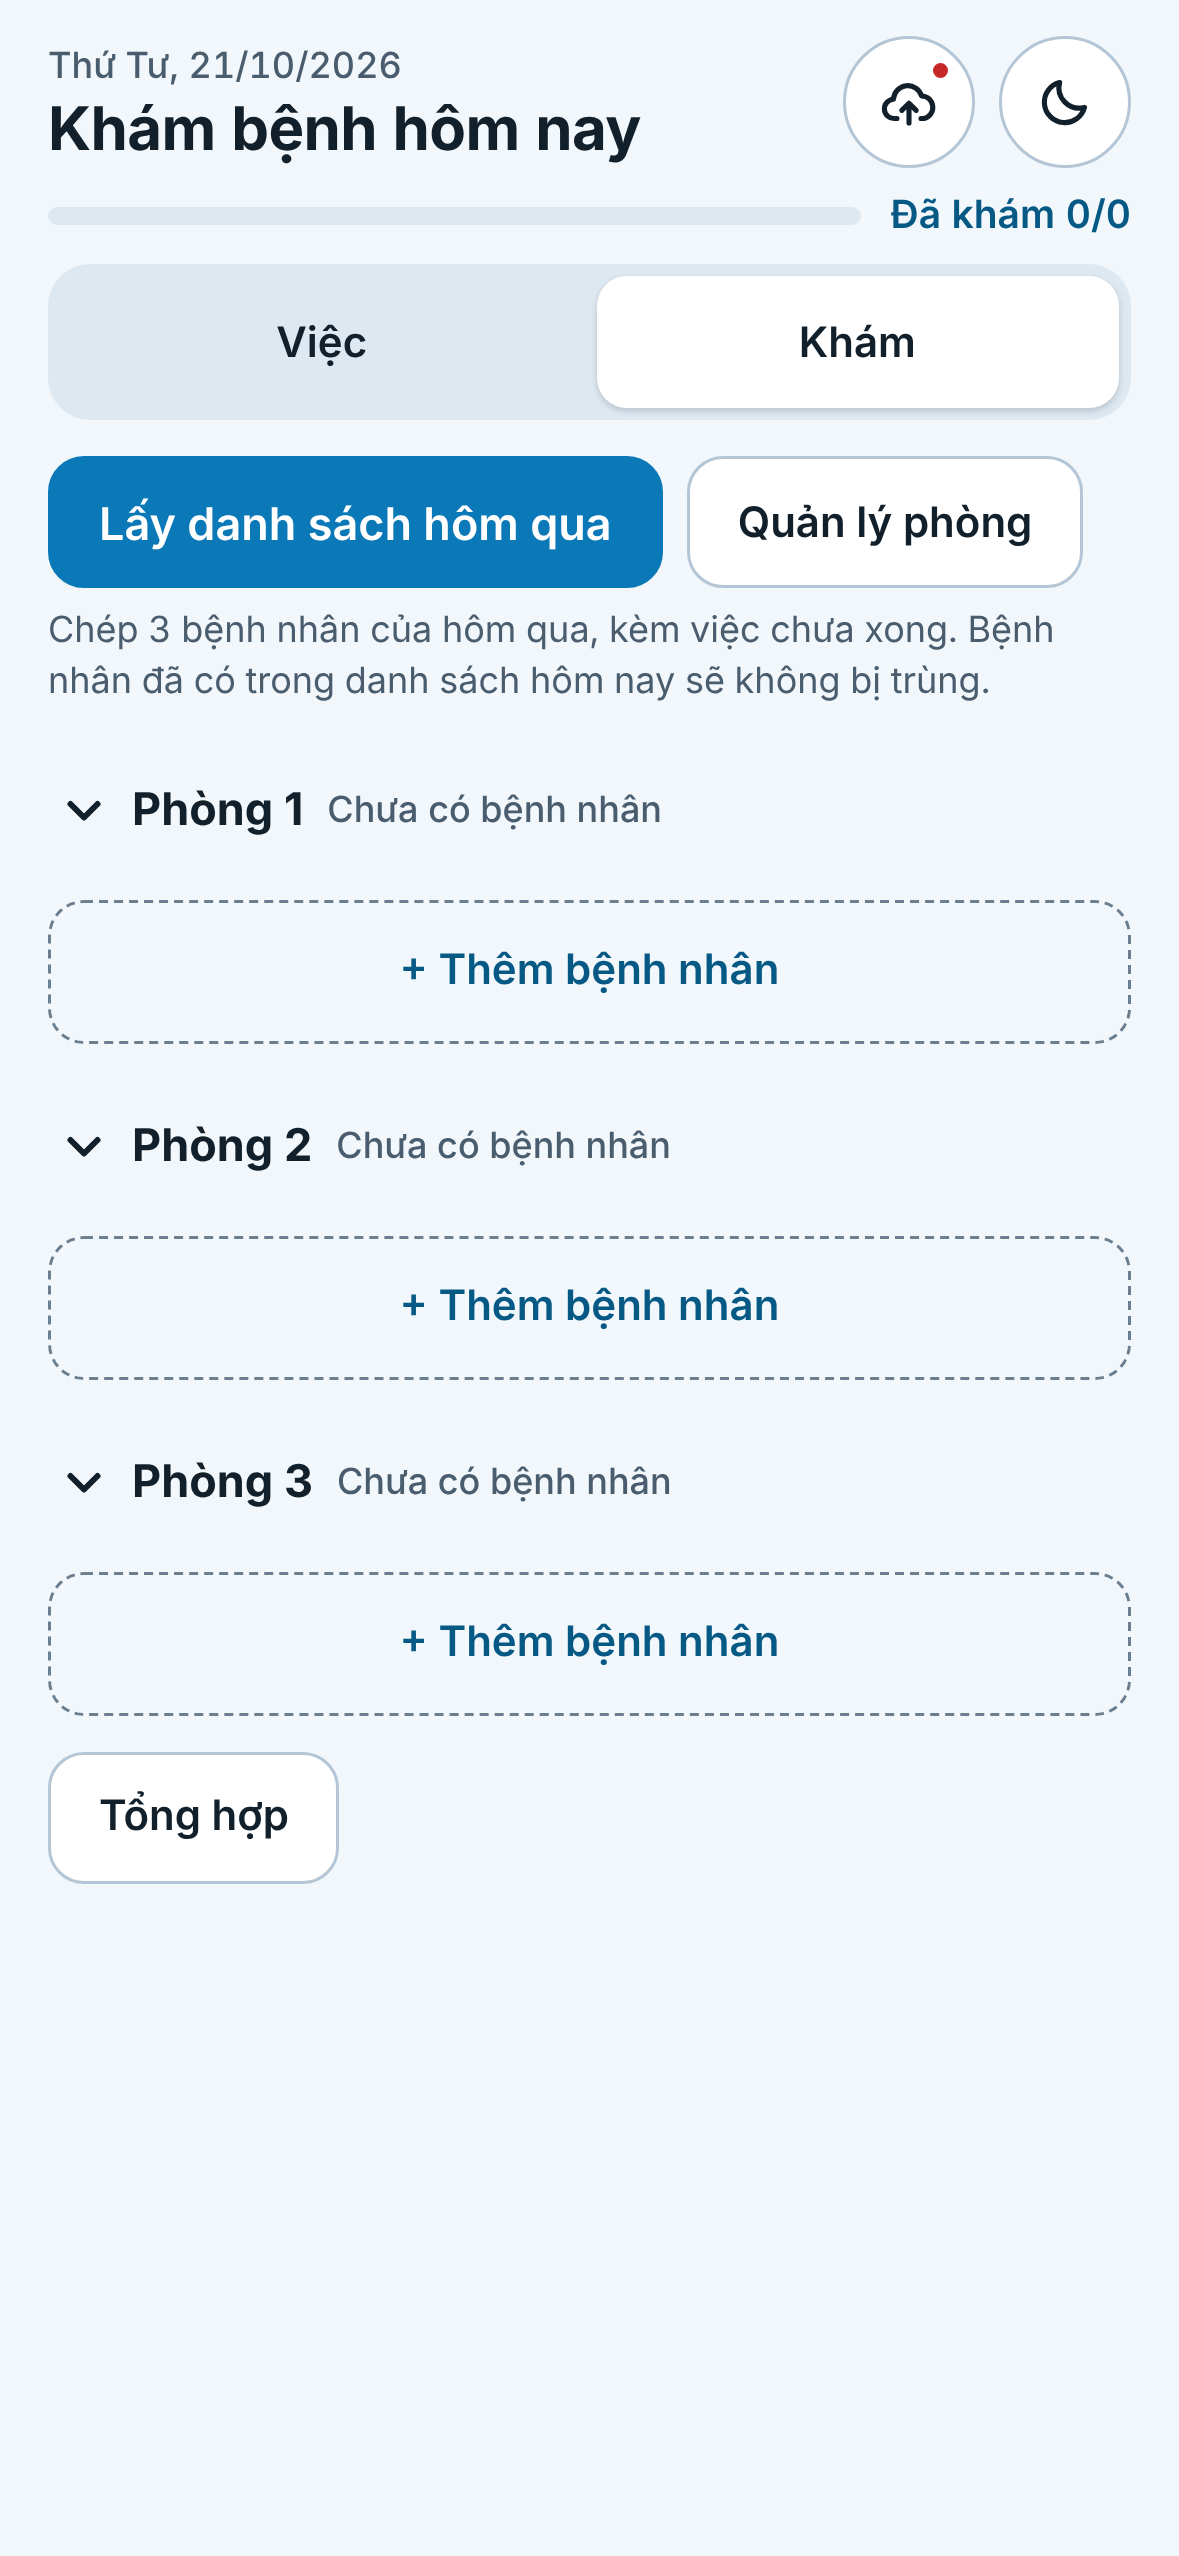
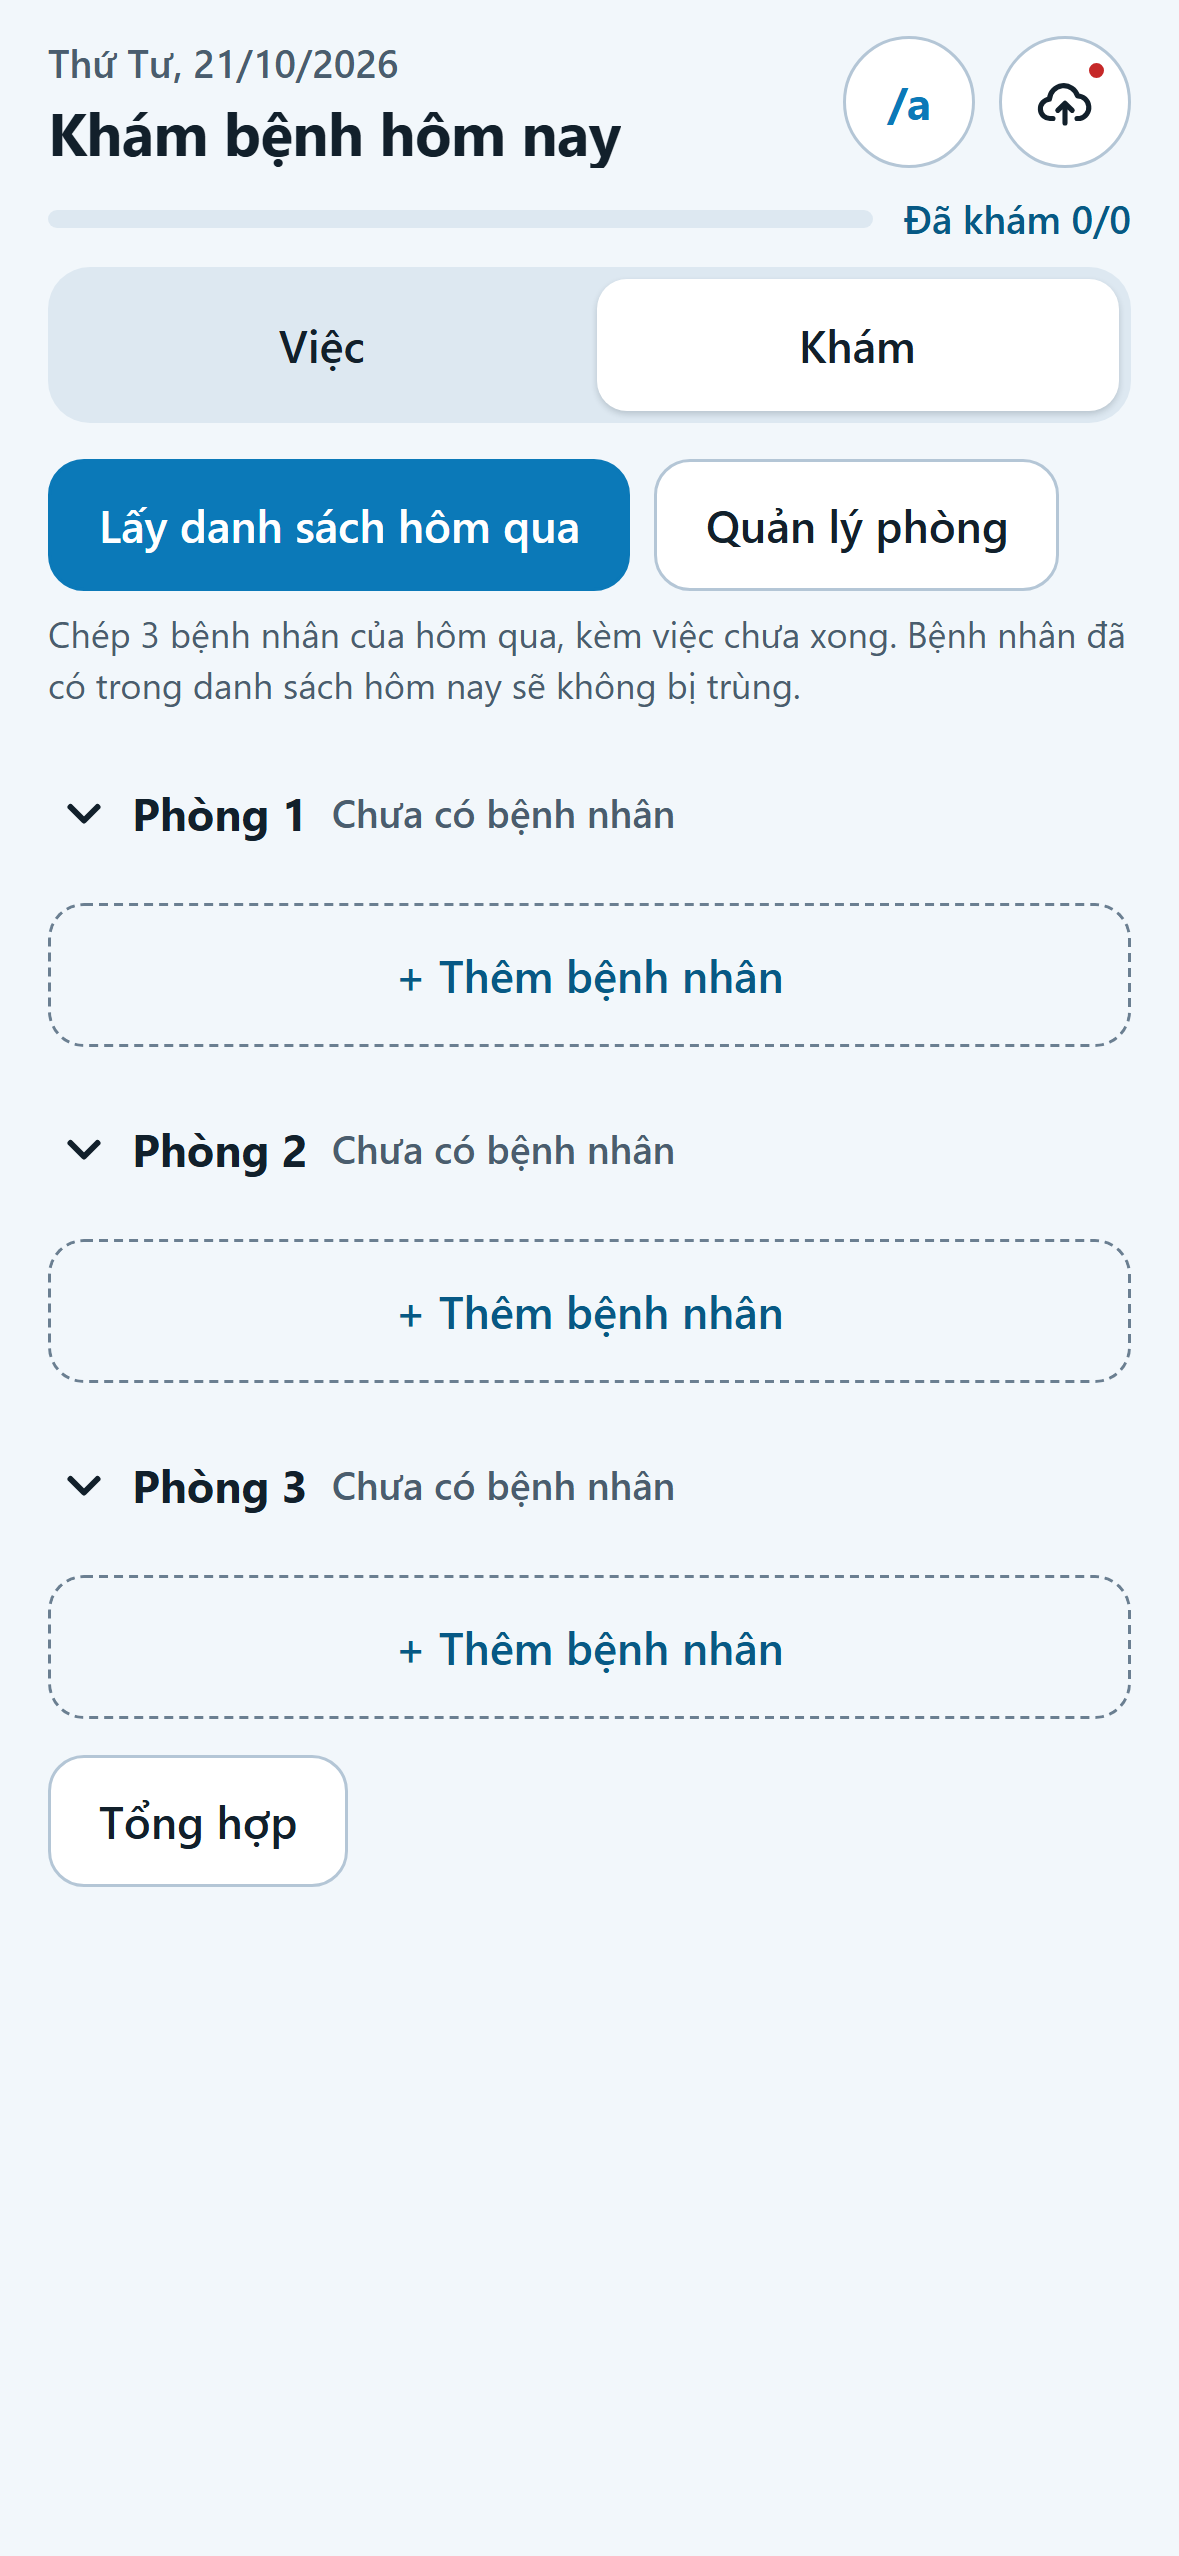
v9.1 đã duyệt: lưu ảnh chuẩn mới; thêm phiếu đợt 9.2 chờ duyệt (chưa đổi app)

diff --git a/doi-agent/NHAT_KY.md b/doi-agent/NHAT_KY.md
@@ -7,7 +7,6 @@
 | # | Phát hiện | Mức | Đề xuất | Agent |
 |---|---|---|---|---|
 | 1 | Cuộn dọc danh sách và vuốt trái (SwipeRow kiểu C) bằng ngón tay thật, cùng bàn phím iPhone thật với bảng chi tiết việc, chưa kiểm được bằng máy (Chromium headless) — bác sĩ thử trên iPhone. | Lưu ý | Bác sĩ thử vuốt dọc/trái và gõ trong chi tiết việc trên iPhone; nếu vướng thì giao phiếu chỉnh. | Giao diện |
-| 2 | Ảnh chuẩn `doi-agent/anh-chuan/` chưa cập nhật cho v8 và v9.1. | Lưu ý | Chờ bác sĩ duyệt ảnh v9 (ảnh v9.1 đã chụp), rồi mới chạy `--luu-chuan` để lưu bộ chuẩn mới. | Kiểm thử |
 | 3 | Ô thêm việc một dòng: gõ "/ctm" rồi Enter thì gửi luôn, không thay chữ (phiếu chỉ yêu cầu dấu cách). | Lưu ý | Hỏi bác sĩ có muốn Enter cũng thay chữ trước khi gửi không. | Giao diện |
 | 4 | Bản tối: hộp thông báo "Đã thay" nền sáng, đọc rõ nhưng sáng hơn phần còn lại. | Lưu ý | Bác sĩ xem trên máy thật; nếu chói thì chỉnh màu `--vtAct` và nền hộp. | Giao diện |
 | 5 | PC: ô lịch tháng 39×48px (có từ trước, không phải do v8.1). | Lưu ý | Phóng to ô nếu bác sĩ dùng chuột/chạm trên PC. | Giao diện |
@@ -33,8 +32,8 @@
   8. Khai báo sẵn màu trạng thái của v9 (tích xong, nền vuốt, nút xoá dịu, dải ngày trước, khoảng ngày) cho cả sáng và tối; chưa dùng, trừ màu chữ chip khu trống.
 - Kỹ thuật: `src/lib/cai-dat.js` mới (hàm thuần); `src/hooks.js` thêm `useGiaoDien`, `useLanMoApp`; `ui.jsx` thêm `mauNhan` (`TAG_COLOR` còn trong `viec.js`, giao diện không dùng); biến màu mới trong `App.css`; `BackupPanel.jsx`, `App.jsx`, `Tasks.jsx` sửa theo; `tests/luat.test.js` thêm bài kiểm v9.1. Không đổi CSDL, sao lưu, `actions.js`, `package.json`.
 - Sửa nhỏ `scripts/chup-giao-dien.mjs`: chạm vùng trống trước khi mở chi tiết việc "Gọi người nhà giường 12" (Chromium headless nuốt cú chạm đầu sau khi đóng Thư viện viết tắt). Ngoài ra script được cập nhật cho khớp: đổi sáng/tối qua bảng cài đặt, thêm ảnh iPhone cài đặt sáng/tối, kiểm 3 chế độ Sáng/Tối/Theo máy.
-- Kết quả kiểm: kiểm thử độc lập ĐẠT, không vòng sửa nào; `npm test` 83/83; script chụp ĐẠT 34 ảnh. Chưa thử trên iPhone thật. So ảnh chuẩn tự động chưa chạy (máy chụp không có `sharp`), đã so bằng mắt; ảnh chuẩn chưa lưu lại (chờ bác sĩ duyệt ảnh). Các điểm cần bác sĩ quyết xem bảng "Chờ duyệt" (#8–#14).
-- Việc tiếp theo: đợt 9.2 (cử chỉ mới) — chờ bác sĩ duyệt ảnh 9.1 và duyệt phiếu 9.2.
+- Kết quả kiểm: kiểm thử độc lập ĐẠT, không vòng sửa nào; `npm test` 83/83; script chụp ĐẠT 34 ảnh. Chưa thử trên iPhone thật. So ảnh chuẩn tự động chưa chạy (máy chụp không có `sharp`), đã so bằng mắt. Bác sĩ duyệt giao diện 9.1 ngày 05/11/2026; ảnh chuẩn đã lưu lại bằng `--luu-chuan` (34 ảnh). Các điểm cần bác sĩ quyết xem bảng "Chờ duyệt" (#8–#14).
+- Việc tiếp theo: đợt 9.2 (cử chỉ mới) — phiếu `doi-agent/phieu-viec/2026-11-05-v9-2-cu-chi-moi.json` chờ bác sĩ duyệt, chưa sửa mã.
 
 ## 05/11/2026 — Đóng gói thiết kế v9 (chưa đổi app)
 - Bác sĩ duyệt toàn bộ canvas "Ghi chú Sơ sinh v8 — thiết kế" (25 bảng): bỏ ô tick, vuốt phải/trái 1/3 để xong/xoá (có Hoàn tác), màu nhãn dịu cùng tông, thang chữ 5 bậc, đầu trang 3 nút, Sao lưu và cài đặt (Sáng/Tối/Theo máy, ngày làm việc bắt đầu 07:00), ô thêm việc 1 dòng, Khám có nút + trên dòng phòng và chi tiết bé mới, lịch ô tròn, xem lại ngày trước, tổng hợp nhiều ngày, xem 2 ngày để giao tour.

diff --git a/doi-agent/BAN_DO.md b/doi-agent/BAN_DO.md
@@ -76,5 +76,5 @@
 
 - Phiên bản: **v9.1** (đợt 1/6 của v9: token, đầu trang 3 nút, bảng "Sao lưu và cài đặt").
 - Lần sửa gần nhất: 05/11/2026 — v9.1: màu nhãn mới (bảng 16a) qua biến `--tNV`…; thang chữ iPhone 5 bậc; tab, chip, nút đầu trang cao 44px, chip khu trống chữ nhạt không ghi số 0; đầu trang iPhone còn /a, đám mây, lịch (bỏ nút sáng/tối); bảng "Sao lưu và cài đặt" có Sáng / Tối / Theo máy; dòng nhắc cử chỉ chỉ 3 lần mở đầu hoặc khi danh sách trống; bảng dưới có thanh kéo, tiêu đề 17px; khai báo sẵn màu trạng thái (chưa dùng). Trước đó 29/10/2026 — v8.5: "Xoá việc" trong chi tiết việc dùng DongBtn (bảng trượt xuống rồi mới xoá); khi bảng đang đóng, nền vẫn hứng cú chạm (`.sheet-wrap.out .sheet{pointer-events:none}`). Trước đó (v8.4): vuốt xoá bám theo ngón tay (biến CSS `--p` trên dòng, không render lại danh sách; nút lộ dần từ phải sang trái, nhãn mờ dần; thả quá nửa thì mở); nút xoá chỉ biểu tượng thùng rác viền đỏ, không nền (`--p1`, `--p1rgb`), cảm ứng xoá ở `pointerup`; dòng thu gọn 260ms rồi mới xoá; mọi Sheet có chuyển động mở/đóng (nền mờ dần, bảng trượt lên; đóng xong mới gỡ); tôn trọng prefers-reduced-motion. Trước đó (v8.3): mọi bảng dưới (Sheet) vẽ thẳng vào `<body>` bằng createPortal để không bị phần đầu/thanh thêm việc che trên Safari iPhone; bảng điện thoại mang class `sheet-ph` để giữ cỡ chữ gọn; ô tên việc trong chi tiết việc xuống tối đa 3 dòng. Trước đó (v8.2): vuốt trái thì thẻ đứng yên, viền đỏ, nút "Xoá" đỏ hiện trong dòng (Việc, việc của bé, thư viện viết tắt; PC rê chuột hiện nút); chạm 2 lần vào việc mở bảng "chi tiết việc" cao ~50% (sửa tên, khu, nhãn, ghi chú, xoá); bỏ chạm 3 lần, bảng nhãn riêng, bảng ghi chú cũ, vòng nét đứt. Trước đó (v8.1): viết tắt, bảng `abbrevs` ở `db.version(2)`.
-- Việc tiếp theo: **đợt 9.2** (cử chỉ mới: bỏ ô tick, vuốt phải 1/3 xong, vuốt trái 1/3 xoá + Hoàn tác, tích xanh, `doneAt`). **Phải chờ bác sĩ duyệt ảnh 9.1 và duyệt phiếu 9.2 trước khi sửa mã** (9.2 là việc lớn). Các đợt 9.3–9.6 theo kế hoạch sau đó. Thiết kế v9: đặc tả `doi-agent/thiet-ke-v9/THIET_KE_V9.md`, kế hoạch `doi-agent/phieu-viec/2026-11-05-v9-ke-hoach.json` (6 đợt 9.1–9.6), bản sao canvas `doi-agent/thiet-ke-v9/canvas/`. Đặc tả v9 thắng các quyết định cũ ghi ở mục 9 của nó.
+- Việc tiếp theo: **đợt 9.2** (cử chỉ mới: bỏ ô tick, vuốt phải 1/3 xong, vuốt trái 1/3 xoá + Hoàn tác, tích xanh, `doneAt`). Bác sĩ đã duyệt ảnh 9.1 (05/11/2026). Phiếu `doi-agent/phieu-viec/2026-11-05-v9-2-cu-chi-moi.json` **phải được bác sĩ duyệt trước khi sửa mã** (9.2 là việc lớn). Các đợt 9.3–9.6 theo kế hoạch sau đó. Thiết kế v9: đặc tả `doi-agent/thiet-ke-v9/THIET_KE_V9.md`, kế hoạch `doi-agent/phieu-viec/2026-11-05-v9-ke-hoach.json` (6 đợt 9.1–9.6), bản sao canvas `doi-agent/thiet-ke-v9/canvas/`. Đặc tả v9 thắng các quyết định cũ ghi ở mục 9 của nó.
 - Việc còn chờ bác sĩ quyết: xem mục "Chờ duyệt" trong `doi-agent/NHAT_KY.md`.
